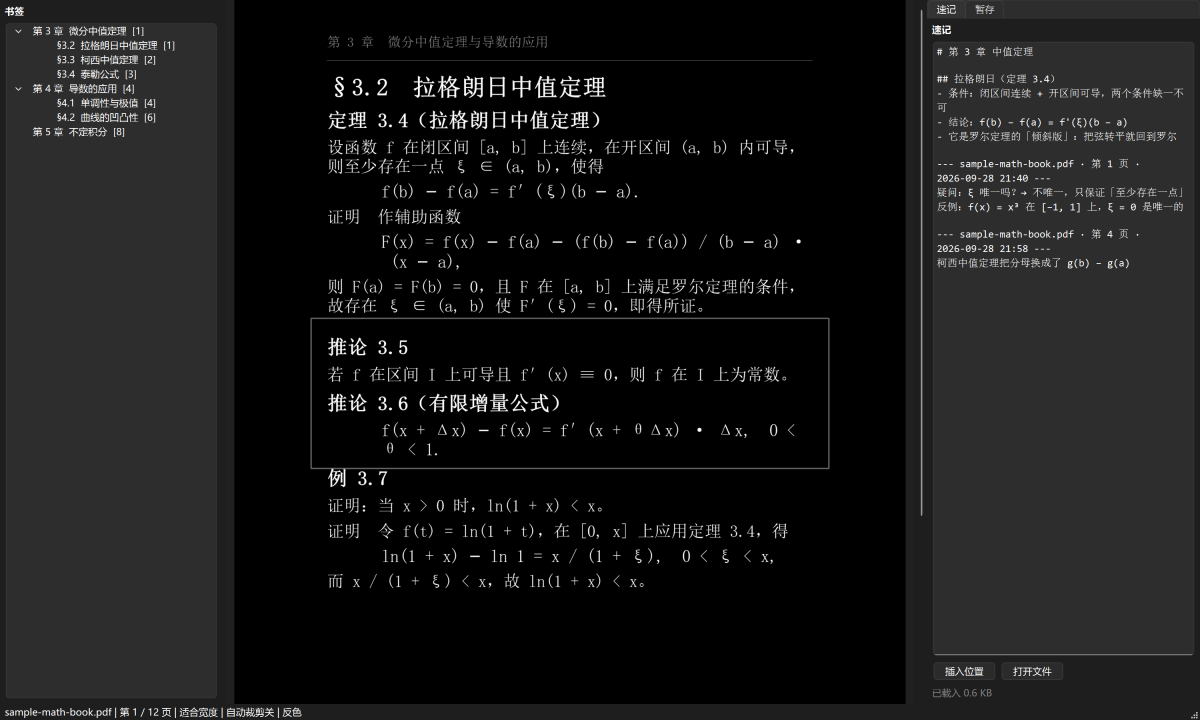
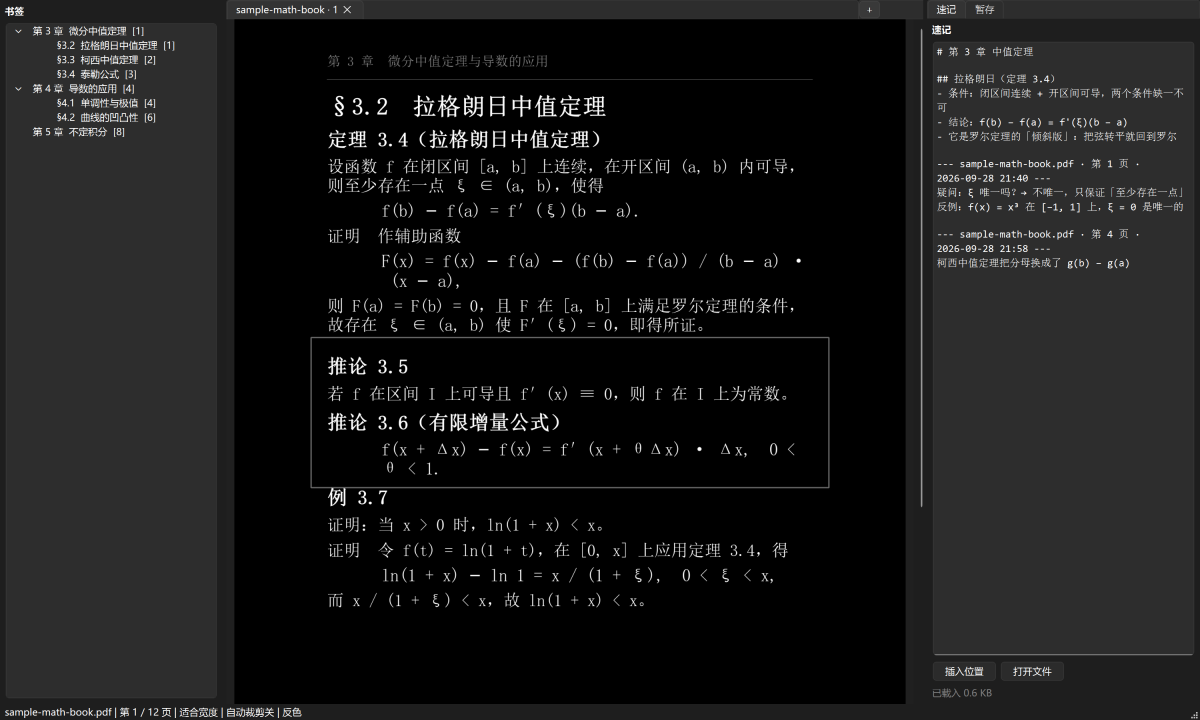
截图：重新生成，补标签页与命令面板两张
- 截图脚本同样要先 import app_config 再 import fitz（否则 PyMuPDF 加载运行库失败）

- 快捷键表补上标签页键位与 Alt+1…9；新增 06-tabs（两个标签页对照）、07-commands（命令面板搜索）

- 快捷键表表头加前景色：深色主题下不再是白字白底

Changed region(s): [[0.185, 0.0, 0.7708, 0.8556], [0.6167, 0.1833, 0.6783, 0.2444], [0.5242, 0.5806, 0.5858, 0.6417]]

diff --git a/tools/make_screenshots.py b/tools/make_screenshots.py
@@ -46,6 +46,7 @@ SAMPLE_NOTES = """# 第 3 章 中值定理
 with open(os.environ["PDF_READER_NOTES_FILE"], "w", encoding="utf-8") as _f:
     _f.write(SAMPLE_NOTES)
 
+import app_config  # noqa: F401  # 必须先于 fitz / PySide6：补 Windows 运行库搜索路径
 import fitz
 from PySide6.QtCore import QRectF, Qt, QTimer
 from PySide6.QtGui import QColor, QFont, QFontDatabase, QFontMetrics, QImage, QPainter, QPen
@@ -240,9 +241,9 @@ shoot(win, "02-capture-mode.png", 1200)
 
 win.toggle_crop_mode()
 app.processEvents()
-dlg = R.ShortcutListDialog(win.SKEY, win)
+dlg = R.ShortcutListDialog(win.SKEY + win._tab_number_rows(), win)
 dlg.setAttribute(Qt.WA_DontShowOnScreen, True)
-dlg.resize(560, 620)
+dlg.resize(560, 700)
 dlg.show()
 app.processEvents()
 QTest.qWait(200)
@@ -267,6 +268,27 @@ to_top()
 app.processEvents()
 QTest.qWait(200)
 shoot(win, "05-invert.png", 1200)
+
+# 标签页：同一本书开两个标签页放不同页（标题带页码，正好演示"对照"）
+win.viewer.set_invert_enabled(False)
+win.open_in_new_tab(book, 4)
+win.side_panel.hide()             # 收起右栏，让页签与两个页面看得清
+win.viewer.fit_width()
+to_top()
+app.processEvents()
+QTest.qWait(250)
+shoot(win, "06-tabs.png", 1200)
+
+# 命令面板：在搜索框里敲关键字后的样子（输入框有焦点，↑↓ + 回车即可执行）
+cmd_dlg = R.CommandDialog(win.get_command_actions(), win)
+cmd_dlg.setAttribute(Qt.WA_DontShowOnScreen, True)
+cmd_dlg.resize(780, 520)
+cmd_dlg.show()
+cmd_dlg.input.setText("标签")
+app.processEvents()
+QTest.qWait(220)
+shoot(cmd_dlg, "07-commands.png")
+cmd_dlg.close()
 
 win.close()
 app.processEvents()
